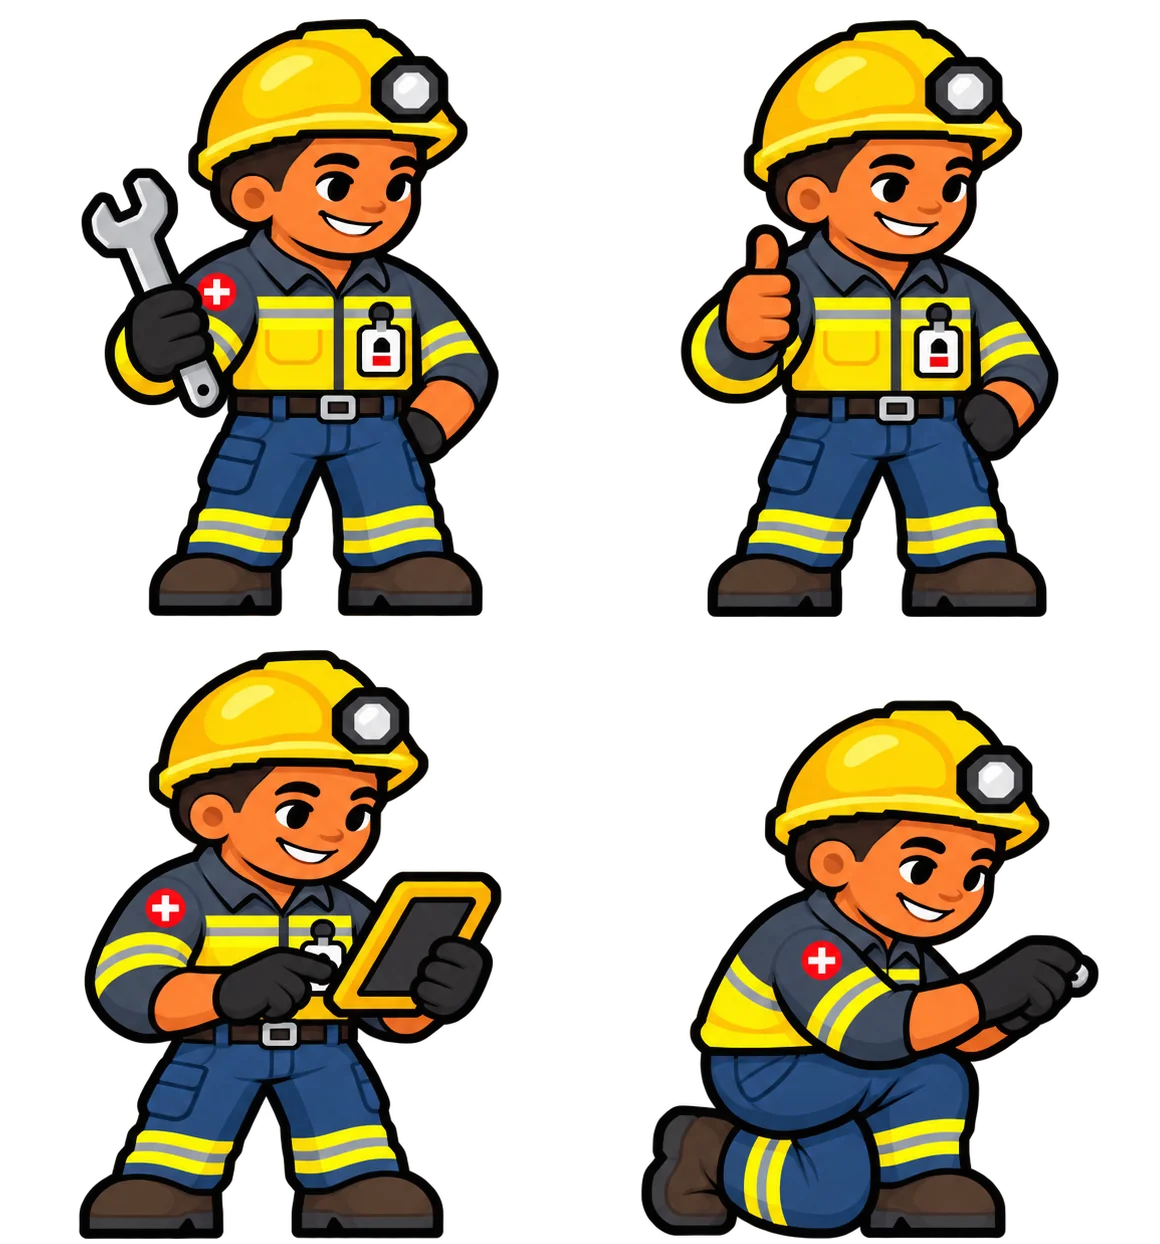
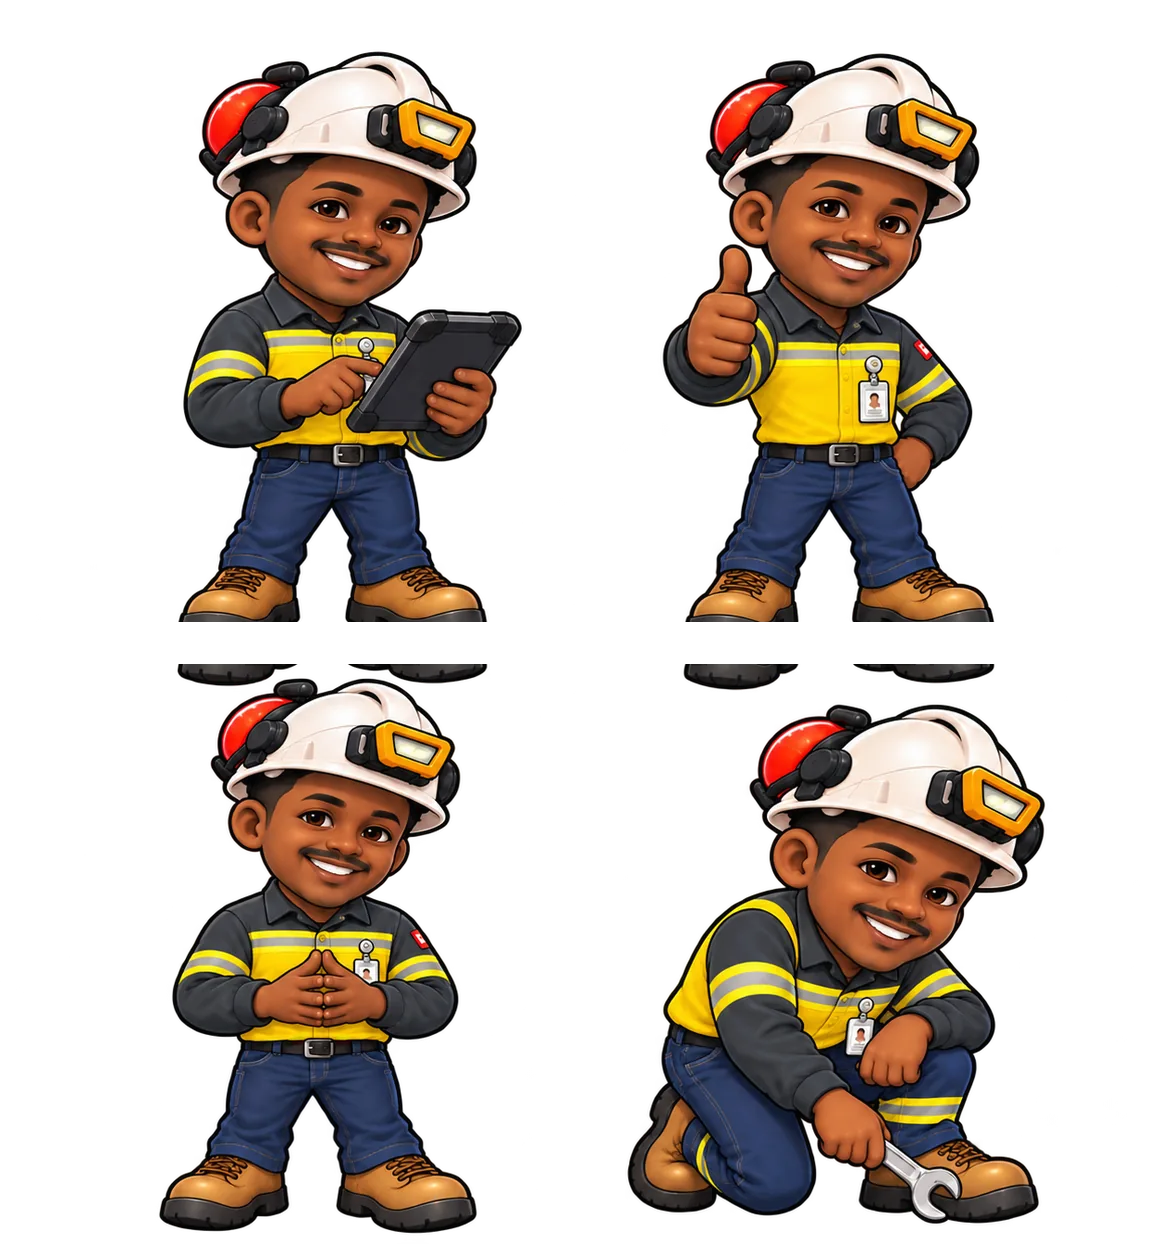
assets: atualizar Geovane com nova cartela de quatro poses (#86)

diff --git a/phaser-play/assets/characters/ROSTER.md b/phaser-play/assets/characters/ROSTER.md
@@ -1,5 +1,7 @@
 > **Atualização 19/10/2026 — Lotação e tentativas:** removidos os tetos de profissionais e de decisões assistidas por turno. Dez personagens nomeados permanecem únicos; mecânicos avulsos podem ser contratados sem limite numérico (respeitando custos e integração). Saves preservados e três boxes continuam limitando OS simultâneas. O registro abaixo conserva o histórico de versões anteriores.
 
+> **Atualização 21/10/2026 — Geovane:** substituída cartela de quatro poses fornecida pelo usuário, normalizada em 1160×1244 RGBA WebP, preservando identificador, layout 2×2 e comportamento das versões anteriores.
+
 > **Atualização 19/10/2026 — Acassio (Instrutor):** novo quarto membro inicial (M4) em campanhas novas. Matriz de competências especificada em `engine.js`; atlas RGBA 1160×1244, quatro poses 580×622, em `acassio-4poses.png`. A imagem é obrigatória antes de integrar o PR, validada por `scripts/test-acassio.cjs`. Saves antigos permanecem com o elenco e as ordens que já tinham. O teto de elenco passa a 14.
 
 > **Atualização 19/10/2026 — v0.8.29:** nova cartela de Pedro enviada pelo usuário; o arquivo original e o procedimento de separação, escala e alinhamento estão registrados em [PEDRO_ASSET_0829.md](PEDRO_ASSET_0829.md). Nenhum atributo de personagem ou OS foi modificado.
@@ -14,7 +16,7 @@
 |---|---|---|---:|---|
[7 lines of base64/hex data omitted]
